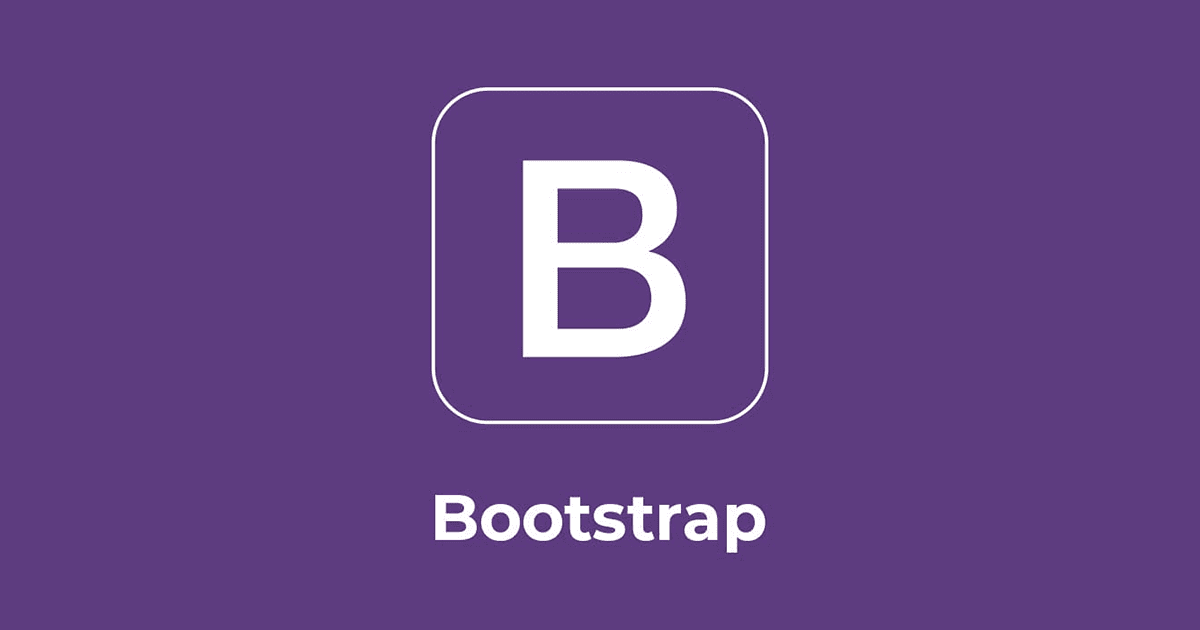
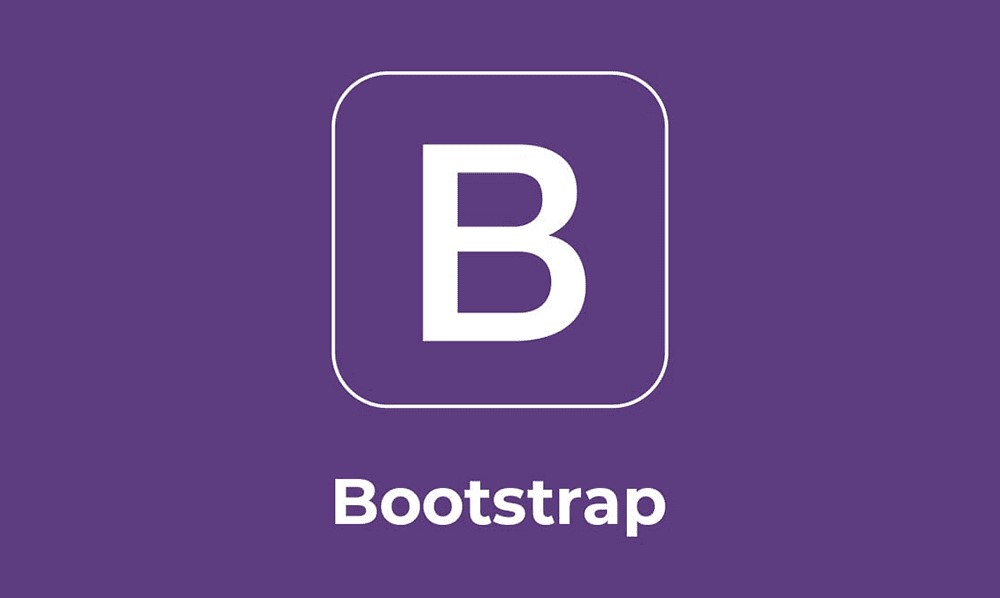
arreglo medidas de img

Changed region(s): [[0.31, 0.0903, 0.682, 0.6923], [0.403, 0.2408, 0.589, 0.5719], [0.31, 0.7826, 0.682, 0.903]]

diff --git a/index.html b/index.html
@@ -1,19 +1,24 @@
 <!DOCTYPE html>
 <html lang="en">
+
 <head>
   <meta charset="UTF-8">
   <meta http-equiv="X-UA-Compatible" content="IE=edge">
   <meta name="viewport" content="width=device-width, initial-scale=1.0">
-  <link href="https://cdn.jsdelivr.net/npm/bootstrap@5.2.1/dist/css/bootstrap.min.css" rel="stylesheet" integrity="sha384-iYQeCzEYFbKjA/T2uDLTpkwGzCiq6soy8tYaI1GyVh/UjpbCx/TYkiZhlZB6+fzT" crossorigin="anonymous">
-  </head>
-  <title>Document</title>
+  <link href="https://cdn.jsdelivr.net/npm/bootstrap@5.2.1/dist/css/bootstrap.min.css" rel="stylesheet"
+    integrity="sha384-iYQeCzEYFbKjA/T2uDLTpkwGzCiq6soy8tYaI1GyVh/UjpbCx/TYkiZhlZB6+fzT" crossorigin="anonymous">
+    <link rel="stylesheet" href="style.css">
 </head>
+<title>Document</title>
+</head>
+
 <body>
   <!-- comienza navbar-->
   <nav class="navbar navbar-expand-lg bg-light">
     <div class="container-fluid">
       <a class="navbar-brand" href="#">Codo a Codo</a>
-      <button class="navbar-toggler" type="button" data-bs-toggle="collapse" data-bs-target="#navbarTogglerDemo02" aria-controls="navbarTogglerDemo02" aria-expanded="false" aria-label="Toggle navigation">
+      <button class="navbar-toggler" type="button" data-bs-toggle="collapse" data-bs-target="#navbarTogglerDemo02"
+        aria-controls="navbarTogglerDemo02" aria-expanded="false" aria-label="Toggle navigation">
         <span class="navbar-toggler-icon"></span>
       </button>
       <div class="collapse navbar-collapse" id="navbarTogglerDemo02">
@@ -63,24 +68,24 @@
       </div>
     </div>
   </div>
-<!--termina card-->
-<!-- empieza formulario-->
-<form>
-  <div class="mb-3">
-    <label for="exampleInputEmail1" class="form-label">Email</label>
-    <input type="email" class="form-control" id="exampleInputEmail1" aria-describedby="emailHelp">
-    <div id="emailHelp" class="form-text">Nunca comparta su email</div>
-  </div>
-  <div class="mb-3">
-    <label for="exampleInputPassword1" class="form-label">Contraseña</label>
-    <input type="password" class="form-control" id="exampleInputPassword1">
-  </div>
-  <div class="mb-3 form-check">
-    <input type="checkbox" class="form-check-input" id="exampleCheck1">
-    <label class="form-check-label" for="exampleCheck1">Verificar</label>
-  </div>
-  <button type="submit" class="btn btn-primary">Enviar</button>
-</form>
-<!--termina formulario-->
+  <!--termina card-->
+  <!-- empieza formulario-->
+  <form>
+    <div class="mb-3">
+      <label for="exampleInputEmail1" class="form-label">Email</label>
+      <input type="email" class="form-control" id="exampleInputEmail1" aria-describedby="emailHelp">
+      <div id="emailHelp" class="form-text">Nunca comparta su email</div>
+    </div>
+    <div class="mb-3">
+      <label for="exampleInputPassword1" class="form-label">Contraseña</label>
+      <input type="password" class="form-control" id="exampleInputPassword1">
+    </div>
+    <div class="mb-3 form-check">
+      <input type="checkbox" class="form-check-input" id="exampleCheck1">
+      <label class="form-check-label" for="exampleCheck1">Verificar</label>
+    </div>
+    <button type="submit" class="btn btn-primary">Enviar</button>
+  </form>
+  <!--termina formulario-->
 </body>
 </html>
